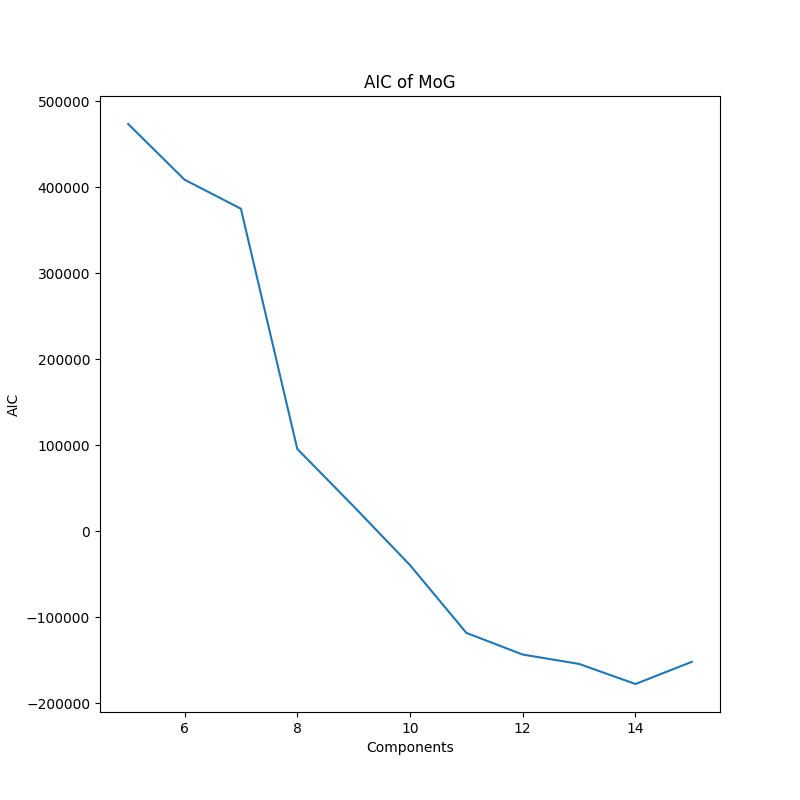
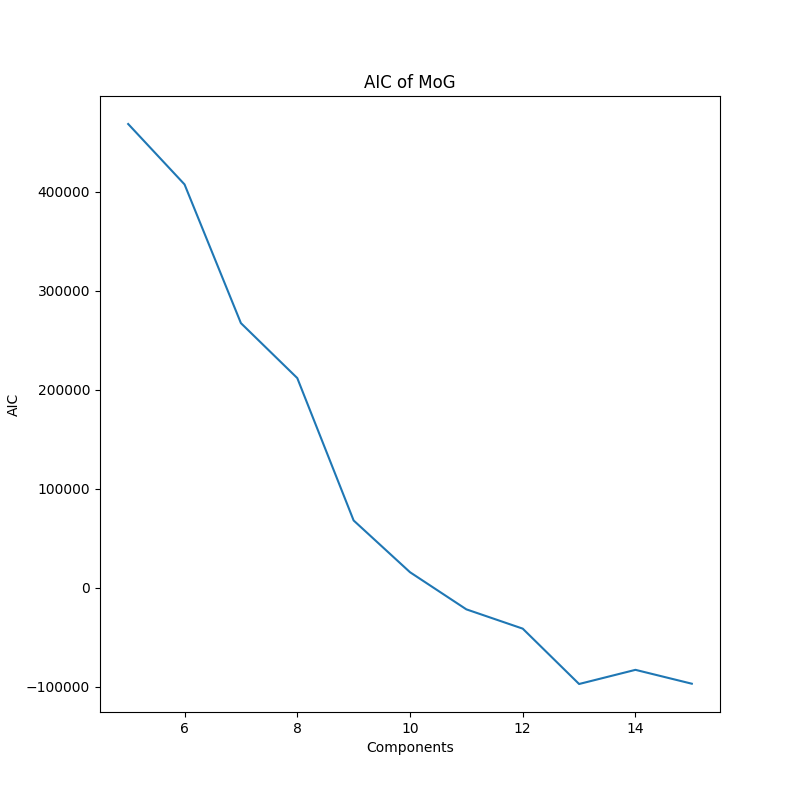
newModel in MoG

diff --git a/Gene Data Pipeline/Models.py b/Gene Data Pipeline/Models.py
@@ -9,6 +9,9 @@ from sklearn.neighbors import KNeighborsClassifier
 class ModelLR:
     def __init__(self):
         self.regressionModel = LogisticRegression(random_state=16)
+    
+    def newModel(self):
+        pass
 
     def train(self, trainX, trainY, classWeights):
         self.regressionModel = LogisticRegression(random_state=16, max_iter=10000, class_weight=classWeights)
@@ -29,6 +32,9 @@ class ModelLR:
 class ModelKNN:
     def __init__(self, k, seed):
         self.knn_model = KNeighborsClassifier(n_neighbors=k)
+    
+    def newModel(self):
+        pass
 
     def train(self, trainX, trainY, classWeights):
         self.knn_model.fit(trainX, trainY)
@@ -47,72 +53,76 @@ class ModelKNN:
 
 class ModelMoG:
     def __init__(self):
-        self.gmm = None
         self.labels = None
+        self.components = 0
+    
+    def newModel(self):
+        self.components = 0
 
-    def train(self, datasetX, datasetY,classWeights):
-        #datasetX = self.trainX
-        #datasetY = self.trainY
-        
-        AIC = []
-        gmms = []
-        componentsRange = range(5,16,1)
-        for components in componentsRange:
-            #np.random.seed(42)
+    def train(self, trainX, trainY,classWeights):
+        self.gmm = None
+        if self.components == 0:
+            AIC = []
+            gmms = []
+            componentsRange = range(5,16,1)
+            for components in componentsRange:
+                np.random.seed(42)
+                newGmm = GaussianMixture(n_components=components)#, random_state=42)
+                                        # covariance_type='full', 
+                                        # tol=1e-10,
+                                        # reg_covar=1e-10,
+                                        # max_iter=100, 
+                                        # n_init=20,
+                                        # init_params='kmeans', 
+                                        # weights_init=None, 
+                                        # means_init=None, 
+                                        # precisions_init=None, 
+                                        # random_state=None, 
+                                        # warm_start=False, 
+                                        # verbose=0,
+                                        # verbose_interval=10)
+                newGmm.fit(trainX) 
+                AIC.append(newGmm.aic(trainX))
+                gmms.append(newGmm)
+                #BIC = gmm.big(datasetX)
+
+            plt.close()
+            plt.cla()
+            plt.clf()
+            fig = plt.figure(figsize = (8,8))
+            plt.plot(componentsRange,AIC)
+            
+            plt.xlabel("Components")
+            plt.ylabel("AIC")
+            plt.title("AIC of MoG")
+            plt.savefig(f"Figures{os.sep}MoG")
+
+            self.gmm = gmms[np.argmin(AIC)]
+            self.gmm.n_components
+            self.components = self.gmm.n_components
+            print("Optimal number of Gaussian components is : " + str(self.components))
+        else:
             np.random.seed(42)
-            newGmm = GaussianMixture(n_components=components)#, random_state=42)
-                                    # covariance_type='full', 
-                                    # tol=1e-10,
-                                    # reg_covar=1e-10,
-                                    # max_iter=100, 
-                                    # n_init=20,
-                                    # init_params='kmeans', 
-                                    # weights_init=None, 
-                                    # means_init=None, 
-                                    # precisions_init=None, 
-                                    # random_state=None, 
-                                    # warm_start=False, 
-                                    # verbose=0,
-                                    # verbose_interval=10)
-            newGmm.fit(datasetX) 
-            AIC.append(newGmm.aic(datasetX))
-            gmms.append(newGmm)
-            #BIC = gmm.big(datasetX)
+            self.gmm = GaussianMixture(n_components=self.components)
+            self.gmm.fit(trainX) 
 
-        plt.close()
-        plt.cla()
-        plt.clf()
-        fig = plt.figure(figsize = (8,8))
-        plt.plot(componentsRange,AIC)
-        
-        plt.xlabel("Components")
-        plt.ylabel("AIC")
-        plt.title("AIC of MoG")
-        plt.savefig(f"Figures{os.sep}MoG")
-
-
-
-        self.gmm = gmms[np.argmin(AIC)]
-        self.gmm.n_components
-        finalComponents = self.gmm.n_components
-        
         # Match the labels of the MoG with the real labels. 
-        labels = np.zeros((finalComponents, 5))
-        for i in range(len(datasetY)):
-            realLabel = datasetY[i]
-            image = datasetX[i]
+        labels = np.zeros((self.components, 5))
+        for i in range(len(trainY)):
+            realLabel = trainY[i]
+            image = trainX[i]
             image = image.reshape(1,-1)
             classPredictions = int(self.gmm.predict(image))
             labels[classPredictions][realLabel] += 1
-        self.labels = [0] * finalComponents
+        self.labels = [0] * self.components
         good = 0
-        for index in range(finalComponents):
+        for index in range(self.components):
             mostCount = np.argmax(labels[index])
             good += labels[index][mostCount]
             self.labels[index] = mostCount
         
         # calculate the accuracy of the trained model on the training data
-        accuracy = good/len(datasetY)
+        accuracy = good/len(trainY)
 
     def test(self, testData, testLabels):
         correct = 0
@@ -125,5 +135,3 @@ class ModelMoG:
         accuracy = correct/len(testLabels)
         print(accuracy)
         return accuracy
-    
-    

diff --git a/Gene Data Pipeline/PipelineGenes.py b/Gene Data Pipeline/PipelineGenes.py
@@ -99,7 +99,7 @@ class Pipeline:
         self.trainX = np.delete(centeredTrainingData,zeroColumns,axis=1)/nonZeroSD
 
         # TODO: check if the way the mean is subtracted, and the standard deviation is correct
-        testMean = trainingMean #np.mean((np.sum(self.rawTestX)+numberOfTrainingSamples*trainingMean))
+        testMean = trainingMean
         centeredTestingData = self.rawTestX - testMean
         self.testX = np.delete(centeredTestingData,zeroColumns,axis=1)/nonZeroSD
 
@@ -160,6 +160,8 @@ class Pipeline:
     
     def validation(self, model, data, labels):
         # TODO: for training cost sensitive error function becuase number of samples per class
+        model.newModel()
+        
         accuracies = []
         for fold in range(len(labels)):
             if fold % 100 == 0:
@@ -187,13 +189,14 @@ if __name__=="__main__":
     modelKnn = ModelKNN(k=10,seed=8)
     modelLR = ModelLR()
     modelMoG = ModelMoG()
+
     # TODO: search with a range around the estimated components
     for pcaComponents in range(estimatedComponents-10, estimatedComponents+10, 2):
         print("Search for PCA component "+ str(pcaComponents))
         trainingFeatures = pipeline.featureExtraction(pcaComponents)
-        #pipeline.validation(modelMoG,trainingFeatures, pipeline.trainY)
+        pipeline.validation(modelMoG,trainingFeatures, pipeline.trainY)
         #pipeline.validation(modelLR,trainingFeatures, pipeline.trainY)
-        pipeline.validation(modelKnn,trainingFeatures, pipeline.trainY) 
+        #pipeline.validation(modelKnn,trainingFeatures, pipeline.trainY) 
 
     # TODO: finally, evaluate all models on the test data
     reducedTestData = pipeline.pca.transform(pipeline.testX)
